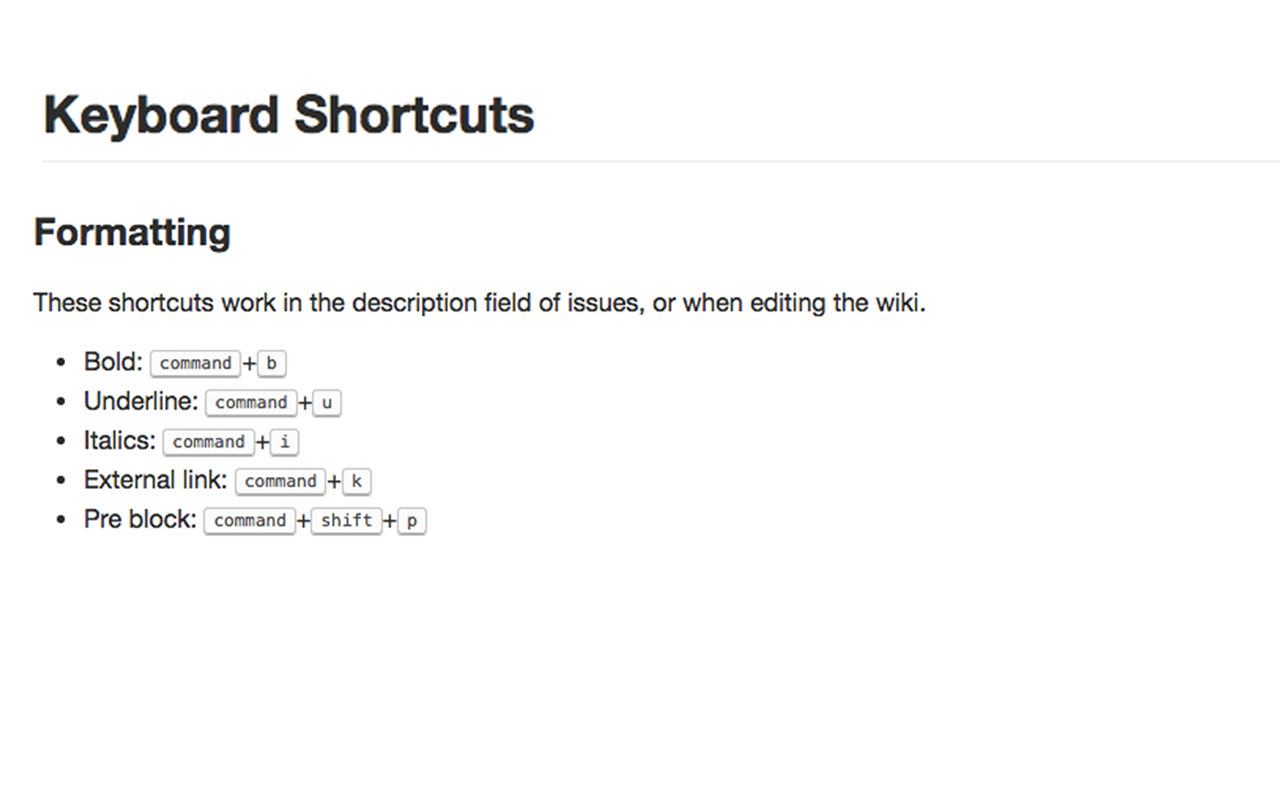
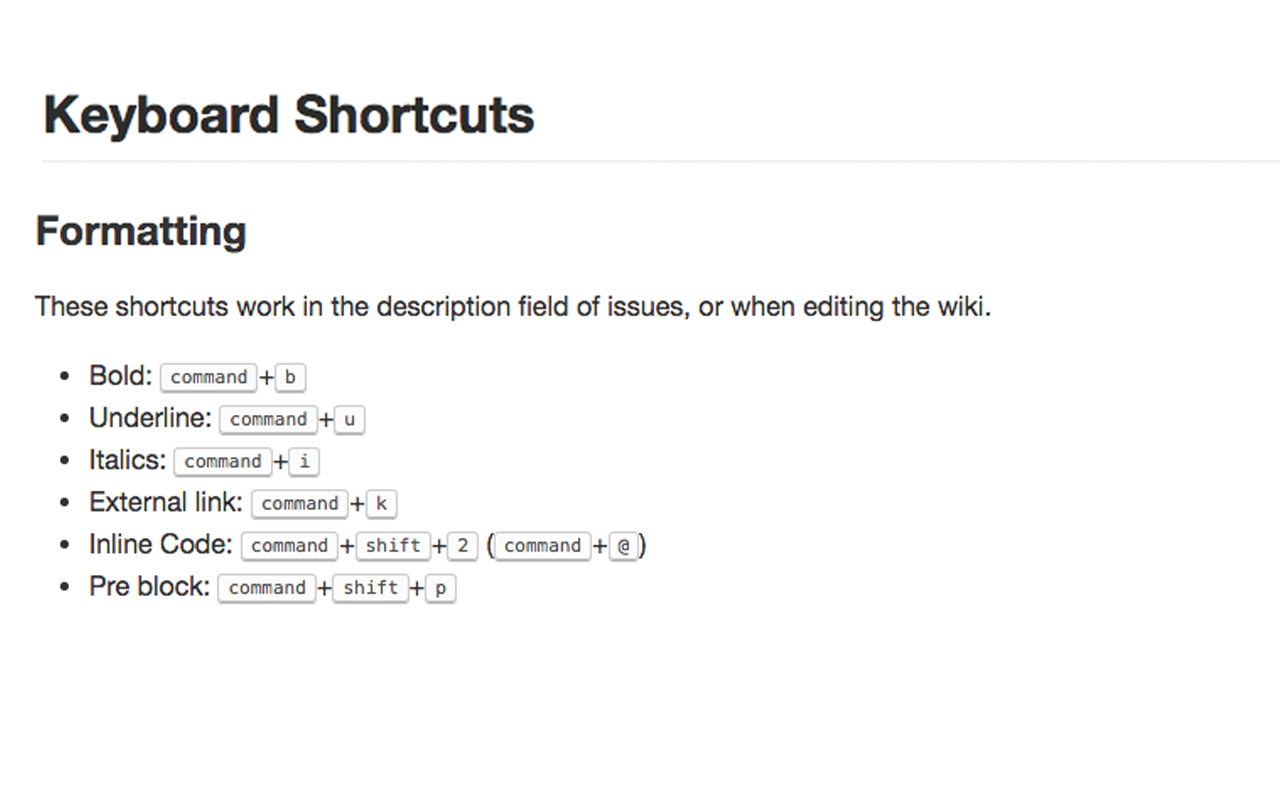
Add inline code formatting shortcut

Changed region(s): [[0.0312, 0.4375, 0.5, 0.7812], [0.0312, 0.3438, 0.7812, 0.4062], [0.0, 0.25, 0.2188, 0.3125]]

diff --git a/extension/content.js b/extension/content.js
@@ -145,6 +145,13 @@ function registerFormattingShortcuts() {
     }
   });
 
+  // inline code block
+  Mousetrap.bindGlobal('command+shift+2', e => {
+    if (isFormTextarea(e.target)) {
+      insertStyleSnippet(e.target, '@@');
+    }
+  });
+
   // pre block
   Mousetrap.bindGlobal('command+shift+p', e => {
     if (isFormTextarea(e.target)) {

diff --git a/readme.md b/readme.md
@@ -52,4 +52,5 @@ These shortcuts work in the description field of issues, or when editing the wik
 - Underline: <kbd>command</kbd>+<kbd>u</kbd>
 - Italics: <kbd>command</kbd>+<kbd>i</kbd>
 - External link: <kbd>command</kbd>+<kbd>k</kbd>
+- Inline Code: <kbd>command</kbd>+<kbd>shift</kbd>+<kbd>2</kbd> (<kbd>command</kbd>+<kbd>@</kbd>)
 - Pre block: <kbd>command</kbd>+<kbd>shift</kbd>+<kbd>p</kbd>
